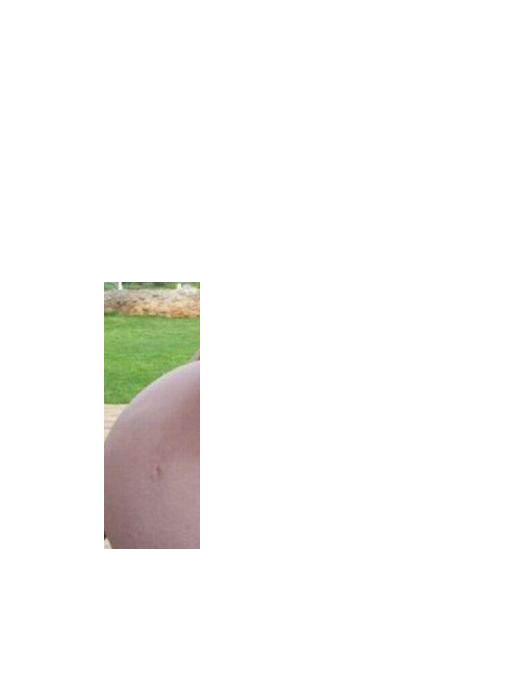
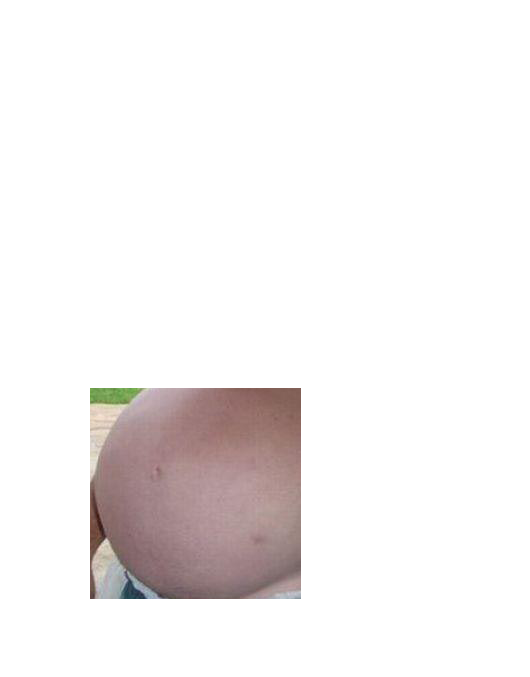
This or This v0.2.35 - Pictures Zoom

Changed region(s): [[0.1509, 0.4032, 0.5736, 0.8996]]

diff --git a/js/jquery.elevateZoom-3.0.8.min.js b/js/jquery.elevateZoom-3.0.8.min.js
@@ -1,0 +1,66 @@
+/* jQuery elevateZoom 3.0.8 - Demo's and documentation: - www.elevateweb.co.uk/image-zoom - Copyright (c) 2013 Andrew Eades - www.elevateweb.co.uk - Dual licensed under the LGPL licenses. - http://en.wikipedia.org/wiki/MIT_License - http://en.wikipedia.org/wiki/GNU_General_Public_License */
+"function"!==typeof Object.create&&(Object.create=function(d){function h(){}h.prototype=d;return new h});
+(function(d,h,l,m){var k={init:function(b,a){var c=this;c.elem=a;c.$elem=d(a);c.imageSrc=c.$elem.data("zoom-image")?c.$elem.data("zoom-image"):c.$elem.attr("src");c.options=d.extend({},d.fn.elevateZoom.options,b);c.options.tint&&(c.options.lensColour="none",c.options.lensOpacity="1");"inner"==c.options.zoomType&&(c.options.showLens=!1);c.$elem.parent().removeAttr("title").removeAttr("alt");c.zoomImage=c.imageSrc;c.refresh(1);d("#"+c.options.gallery+" a").click(function(a){c.options.galleryActiveClass&&
+(d("#"+c.options.gallery+" a").removeClass(c.options.galleryActiveClass),d(this).addClass(c.options.galleryActiveClass));a.preventDefault();d(this).data("zoom-image")?c.zoomImagePre=d(this).data("zoom-image"):c.zoomImagePre=d(this).data("image");c.swaptheimage(d(this).data("image"),c.zoomImagePre);return!1})},refresh:function(b){var a=this;setTimeout(function(){a.fetch(a.imageSrc)},b||a.options.refresh)},fetch:function(b){var a=this,c=new Image;c.onload=function(){a.largeWidth=c.width;a.largeHeight=
+c.height;a.startZoom();a.currentImage=a.imageSrc;a.options.onZoomedImageLoaded(a.$elem)};c.src=b},startZoom:function(){var b=this;b.nzWidth=b.$elem.width();b.nzHeight=b.$elem.height();b.isWindowActive=!1;b.isLensActive=!1;b.isTintActive=!1;b.overWindow=!1;b.options.imageCrossfade&&(b.zoomWrap=b.$elem.wrap('<div style="height:'+b.nzHeight+"px;width:"+b.nzWidth+'px;" class="zoomWrapper" />'),b.$elem.css("position","absolute"));b.zoomLock=1;b.scrollingLock=!1;b.changeBgSize=!1;b.currentZoomLevel=b.options.zoomLevel;
+b.nzOffset=b.$elem.offset();b.widthRatio=b.largeWidth/b.currentZoomLevel/b.nzWidth;b.heightRatio=b.largeHeight/b.currentZoomLevel/b.nzHeight;"window"==b.options.zoomType&&(b.zoomWindowStyle="overflow: hidden;background-position: 0px 0px;text-align:center;background-color: "+String(b.options.zoomWindowBgColour)+";width: "+String(b.options.zoomWindowWidth)+"px;height: "+String(b.options.zoomWindowHeight)+"px;float: left;background-size: "+b.largeWidth/b.currentZoomLevel+"px "+b.largeHeight/b.currentZoomLevel+
+"px;display: none;z-index:100;border: "+String(b.options.borderSize)+"px solid "+b.options.borderColour+";background-repeat: no-repeat;position: absolute;");if("inner"==b.options.zoomType){var a=b.$elem.css("border-left-width");b.zoomWindowStyle="overflow: hidden;margin-left: "+String(a)+";margin-top: "+String(a)+";background-position: 0px 0px;width: "+String(b.nzWidth)+"px;height: "+String(b.nzHeight)+"px;float: left;display: none;cursor:"+b.options.cursor+";px solid "+b.options.borderColour+";background-repeat: no-repeat;position: absolute;"}"window"==
+b.options.zoomType&&(lensHeight=b.nzHeight<b.options.zoomWindowWidth/b.widthRatio?b.nzHeight:String(b.options.zoomWindowHeight/b.heightRatio),lensWidth=b.largeWidth<b.options.zoomWindowWidth?b.nzWidth:b.options.zoomWindowWidth/b.widthRatio,b.lensStyle="background-position: 0px 0px;width: "+String(b.options.zoomWindowWidth/b.widthRatio)+"px;height: "+String(b.options.zoomWindowHeight/b.heightRatio)+"px;float: right;display: none;overflow: hidden;z-index: 999;-webkit-transform: translateZ(0);opacity:"+
+b.options.lensOpacity+";filter: alpha(opacity = "+100*b.options.lensOpacity+"); zoom:1;width:"+lensWidth+"px;height:"+lensHeight+"px;background-color:"+b.options.lensColour+";cursor:"+b.options.cursor+";border: "+b.options.lensBorderSize+"px solid "+b.options.lensBorderColour+";background-repeat: no-repeat;position: absolute;");b.tintStyle="display: block;position: absolute;background-color: "+b.options.tintColour+";filter:alpha(opacity=0);opacity: 0;width: "+b.nzWidth+"px;height: "+b.nzHeight+"px;";
+b.lensRound="";"lens"==b.options.zoomType&&(b.lensStyle="background-position: 0px 0px;float: left;display: none;border: "+String(b.options.borderSize)+"px solid "+b.options.borderColour+";width:"+String(b.options.lensSize)+"px;height:"+String(b.options.lensSize)+"px;background-repeat: no-repeat;position: absolute;");"round"==b.options.lensShape&&(b.lensRound="border-top-left-radius: "+String(b.options.lensSize/2+b.options.borderSize)+"px;border-top-right-radius: "+String(b.options.lensSize/2+b.options.borderSize)+
+"px;border-bottom-left-radius: "+String(b.options.lensSize/2+b.options.borderSize)+"px;border-bottom-right-radius: "+String(b.options.lensSize/2+b.options.borderSize)+"px;");b.zoomContainer=d('<div class="zoomContainer" style="-webkit-transform: translateZ(0);position:absolute;left:'+b.nzOffset.left+"px;top:"+b.nzOffset.top+"px;height:"+b.nzHeight+"px;width:"+b.nzWidth+'px;"></div>');d("body").append(b.zoomContainer);b.options.containLensZoom&&"lens"==b.options.zoomType&&b.zoomContainer.css("overflow",
+"hidden");"inner"!=b.options.zoomType&&(b.zoomLens=d("<div class='zoomLens' style='"+b.lensStyle+b.lensRound+"'>&nbsp;</div>").appendTo(b.zoomContainer).click(function(){b.$elem.trigger("click")}),b.options.tint&&(b.tintContainer=d("<div/>").addClass("tintContainer"),b.zoomTint=d("<div class='zoomTint' style='"+b.tintStyle+"'></div>"),b.zoomLens.wrap(b.tintContainer),b.zoomTintcss=b.zoomLens.after(b.zoomTint),b.zoomTintImage=d('<img style="position: absolute; left: 0px; top: 0px; max-width: none; width: '+
+b.nzWidth+"px; height: "+b.nzHeight+'px;" src="'+b.imageSrc+'">').appendTo(b.zoomLens).click(function(){b.$elem.trigger("click")})));isNaN(b.options.zoomWindowPosition)?b.zoomWindow=d("<div style='z-index:999;left:"+b.windowOffsetLeft+"px;top:"+b.windowOffsetTop+"px;"+b.zoomWindowStyle+"' class='zoomWindow'>&nbsp;</div>").appendTo("body").click(function(){b.$elem.trigger("click")}):b.zoomWindow=d("<div style='z-index:999;left:"+b.windowOffsetLeft+"px;top:"+b.windowOffsetTop+"px;"+b.zoomWindowStyle+
+"' class='zoomWindow'>&nbsp;</div>").appendTo(b.zoomContainer).click(function(){b.$elem.trigger("click")});b.zoomWindowContainer=d("<div/>").addClass("zoomWindowContainer").css("width",b.options.zoomWindowWidth);b.zoomWindow.wrap(b.zoomWindowContainer);"lens"==b.options.zoomType&&b.zoomLens.css({backgroundImage:"url('"+b.imageSrc+"')"});"window"==b.options.zoomType&&b.zoomWindow.css({backgroundImage:"url('"+b.imageSrc+"')"});"inner"==b.options.zoomType&&b.zoomWindow.css({backgroundImage:"url('"+b.imageSrc+
+"')"});b.$elem.bind("touchmove",function(a){a.preventDefault();b.setPosition(a.originalEvent.touches[0]||a.originalEvent.changedTouches[0])});b.zoomContainer.bind("touchmove",function(a){"inner"==b.options.zoomType&&b.showHideWindow("show");a.preventDefault();b.setPosition(a.originalEvent.touches[0]||a.originalEvent.changedTouches[0])});b.zoomContainer.bind("touchend",function(a){b.showHideWindow("hide");b.options.showLens&&b.showHideLens("hide");b.options.tint&&"inner"!=b.options.zoomType&&b.showHideTint("hide")});
+b.$elem.bind("touchend",function(a){b.showHideWindow("hide");b.options.showLens&&b.showHideLens("hide");b.options.tint&&"inner"!=b.options.zoomType&&b.showHideTint("hide")});b.options.showLens&&(b.zoomLens.bind("touchmove",function(a){a.preventDefault();b.setPosition(a.originalEvent.touches[0]||a.originalEvent.changedTouches[0])}),b.zoomLens.bind("touchend",function(a){b.showHideWindow("hide");b.options.showLens&&b.showHideLens("hide");b.options.tint&&"inner"!=b.options.zoomType&&b.showHideTint("hide")}));
+b.$elem.bind("mousemove",function(a){!1==b.overWindow&&b.setElements("show");if(b.lastX!==a.clientX||b.lastY!==a.clientY)b.setPosition(a),b.currentLoc=a;b.lastX=a.clientX;b.lastY=a.clientY});b.zoomContainer.bind("mousemove",function(a){!1==b.overWindow&&b.setElements("show");if(b.lastX!==a.clientX||b.lastY!==a.clientY)b.setPosition(a),b.currentLoc=a;b.lastX=a.clientX;b.lastY=a.clientY});"inner"!=b.options.zoomType&&b.zoomLens.bind("mousemove",function(a){if(b.lastX!==a.clientX||b.lastY!==a.clientY)b.setPosition(a),
+b.currentLoc=a;b.lastX=a.clientX;b.lastY=a.clientY});b.options.tint&&"inner"!=b.options.zoomType&&b.zoomTint.bind("mousemove",function(a){if(b.lastX!==a.clientX||b.lastY!==a.clientY)b.setPosition(a),b.currentLoc=a;b.lastX=a.clientX;b.lastY=a.clientY});"inner"==b.options.zoomType&&b.zoomWindow.bind("mousemove",function(a){if(b.lastX!==a.clientX||b.lastY!==a.clientY)b.setPosition(a),b.currentLoc=a;b.lastX=a.clientX;b.lastY=a.clientY});b.zoomContainer.add(b.$elem).mouseenter(function(){!1==b.overWindow&&
+b.setElements("show")}).mouseleave(function(){b.scrollLock||b.setElements("hide")});"inner"!=b.options.zoomType&&b.zoomWindow.mouseenter(function(){b.overWindow=!0;b.setElements("hide")}).mouseleave(function(){b.overWindow=!1});b.minZoomLevel=b.options.minZoomLevel?b.options.minZoomLevel:2*b.options.scrollZoomIncrement;b.options.scrollZoom&&b.zoomContainer.add(b.$elem).bind("mousewheel DOMMouseScroll MozMousePixelScroll",function(a){b.scrollLock=!0;clearTimeout(d.data(this,"timer"));d.data(this,"timer",
+setTimeout(function(){b.scrollLock=!1},250));var e=a.originalEvent.wheelDelta||-1*a.originalEvent.detail;a.stopImmediatePropagation();a.stopPropagation();a.preventDefault();0<e/120?b.currentZoomLevel>=b.minZoomLevel&&b.changeZoomLevel(b.currentZoomLevel-b.options.scrollZoomIncrement):b.options.maxZoomLevel?b.currentZoomLevel<=b.options.maxZoomLevel&&b.changeZoomLevel(parseFloat(b.currentZoomLevel)+b.options.scrollZoomIncrement):b.changeZoomLevel(parseFloat(b.currentZoomLevel)+b.options.scrollZoomIncrement);
+return!1})},setElements:function(b){if(!this.options.zoomEnabled)return!1;"show"==b&&this.isWindowSet&&("inner"==this.options.zoomType&&this.showHideWindow("show"),"window"==this.options.zoomType&&this.showHideWindow("show"),this.options.showLens&&this.showHideLens("show"),this.options.tint&&"inner"!=this.options.zoomType&&this.showHideTint("show"));"hide"==b&&("window"==this.options.zoomType&&this.showHideWindow("hide"),this.options.tint||this.showHideWindow("hide"),this.options.showLens&&this.showHideLens("hide"),
+this.options.tint&&this.showHideTint("hide"))},setPosition:function(b){if(!this.options.zoomEnabled)return!1;this.nzHeight=this.$elem.height();this.nzWidth=this.$elem.width();this.nzOffset=this.$elem.offset();this.options.tint&&"inner"!=this.options.zoomType&&(this.zoomTint.css({top:0}),this.zoomTint.css({left:0}));this.options.responsive&&!this.options.scrollZoom&&this.options.showLens&&(lensHeight=this.nzHeight<this.options.zoomWindowWidth/this.widthRatio?this.nzHeight:String(this.options.zoomWindowHeight/
+this.heightRatio),lensWidth=this.largeWidth<this.options.zoomWindowWidth?this.nzWidth:this.options.zoomWindowWidth/this.widthRatio,this.widthRatio=this.largeWidth/this.nzWidth,this.heightRatio=this.largeHeight/this.nzHeight,"lens"!=this.options.zoomType&&(lensHeight=this.nzHeight<this.options.zoomWindowWidth/this.widthRatio?this.nzHeight:String(this.options.zoomWindowHeight/this.heightRatio),lensWidth=this.options.zoomWindowWidth<this.options.zoomWindowWidth?this.nzWidth:this.options.zoomWindowWidth/
+this.widthRatio,this.zoomLens.css("width",lensWidth),this.zoomLens.css("height",lensHeight),this.options.tint&&(this.zoomTintImage.css("width",this.nzWidth),this.zoomTintImage.css("height",this.nzHeight))),"lens"==this.options.zoomType&&this.zoomLens.css({width:String(this.options.lensSize)+"px",height:String(this.options.lensSize)+"px"}));this.zoomContainer.css({top:this.nzOffset.top});this.zoomContainer.css({left:this.nzOffset.left});this.mouseLeft=parseInt(b.pageX-this.nzOffset.left);this.mouseTop=
+parseInt(b.pageY-this.nzOffset.top);"window"==this.options.zoomType&&(this.Etoppos=this.mouseTop<this.zoomLens.height()/2,this.Eboppos=this.mouseTop>this.nzHeight-this.zoomLens.height()/2-2*this.options.lensBorderSize,this.Eloppos=this.mouseLeft<0+this.zoomLens.width()/2,this.Eroppos=this.mouseLeft>this.nzWidth-this.zoomLens.width()/2-2*this.options.lensBorderSize);"inner"==this.options.zoomType&&(this.Etoppos=this.mouseTop<this.nzHeight/2/this.heightRatio,this.Eboppos=this.mouseTop>this.nzHeight-
+this.nzHeight/2/this.heightRatio,this.Eloppos=this.mouseLeft<0+this.nzWidth/2/this.widthRatio,this.Eroppos=this.mouseLeft>this.nzWidth-this.nzWidth/2/this.widthRatio-2*this.options.lensBorderSize);0>=this.mouseLeft||0>this.mouseTop||this.mouseLeft>this.nzWidth||this.mouseTop>this.nzHeight?this.setElements("hide"):(this.options.showLens&&(this.lensLeftPos=String(this.mouseLeft-this.zoomLens.width()/2),this.lensTopPos=String(this.mouseTop-this.zoomLens.height()/2)),this.Etoppos&&(this.lensTopPos=0),
+this.Eloppos&&(this.tintpos=this.lensLeftPos=this.windowLeftPos=0),"window"==this.options.zoomType&&(this.Eboppos&&(this.lensTopPos=Math.max(this.nzHeight-this.zoomLens.height()-2*this.options.lensBorderSize,0)),this.Eroppos&&(this.lensLeftPos=this.nzWidth-this.zoomLens.width()-2*this.options.lensBorderSize)),"inner"==this.options.zoomType&&(this.Eboppos&&(this.lensTopPos=Math.max(this.nzHeight-2*this.options.lensBorderSize,0)),this.Eroppos&&(this.lensLeftPos=this.nzWidth-this.nzWidth-2*this.options.lensBorderSize)),
+"lens"==this.options.zoomType&&(this.windowLeftPos=String(-1*((b.pageX-this.nzOffset.left)*this.widthRatio-this.zoomLens.width()/2)),this.windowTopPos=String(-1*((b.pageY-this.nzOffset.top)*this.heightRatio-this.zoomLens.height()/2)),this.zoomLens.css({backgroundPosition:this.windowLeftPos+"px "+this.windowTopPos+"px"}),this.changeBgSize&&(this.nzHeight>this.nzWidth?("lens"==this.options.zoomType&&this.zoomLens.css({"background-size":this.largeWidth/this.newvalueheight+"px "+this.largeHeight/this.newvalueheight+
+"px"}),this.zoomWindow.css({"background-size":this.largeWidth/this.newvalueheight+"px "+this.largeHeight/this.newvalueheight+"px"})):("lens"==this.options.zoomType&&this.zoomLens.css({"background-size":this.largeWidth/this.newvaluewidth+"px "+this.largeHeight/this.newvaluewidth+"px"}),this.zoomWindow.css({"background-size":this.largeWidth/this.newvaluewidth+"px "+this.largeHeight/this.newvaluewidth+"px"})),this.changeBgSize=!1),this.setWindowPostition(b)),this.options.tint&&"inner"!=this.options.zoomType&&
+this.setTintPosition(b),"window"==this.options.zoomType&&this.setWindowPostition(b),"inner"==this.options.zoomType&&this.setWindowPostition(b),this.options.showLens&&(this.fullwidth&&"lens"!=this.options.zoomType&&(this.lensLeftPos=0),this.zoomLens.css({left:this.lensLeftPos+"px",top:this.lensTopPos+"px"})))},showHideWindow:function(b){"show"!=b||this.isWindowActive||(this.options.zoomWindowFadeIn?this.zoomWindow.stop(!0,!0,!1).fadeIn(this.options.zoomWindowFadeIn):this.zoomWindow.show(),this.isWindowActive=
+!0);"hide"==b&&this.isWindowActive&&(this.options.zoomWindowFadeOut?this.zoomWindow.stop(!0,!0).fadeOut(this.options.zoomWindowFadeOut):this.zoomWindow.hide(),this.isWindowActive=!1)},showHideLens:function(b){"show"!=b||this.isLensActive||(this.options.lensFadeIn?this.zoomLens.stop(!0,!0,!1).fadeIn(this.options.lensFadeIn):this.zoomLens.show(),this.isLensActive=!0);"hide"==b&&this.isLensActive&&(this.options.lensFadeOut?this.zoomLens.stop(!0,!0).fadeOut(this.options.lensFadeOut):this.zoomLens.hide(),
+this.isLensActive=!1)},showHideTint:function(b){"show"!=b||this.isTintActive||(this.options.zoomTintFadeIn?this.zoomTint.css({opacity:this.options.tintOpacity}).animate().stop(!0,!0).fadeIn("slow"):(this.zoomTint.css({opacity:this.options.tintOpacity}).animate(),this.zoomTint.show()),this.isTintActive=!0);"hide"==b&&this.isTintActive&&(this.options.zoomTintFadeOut?this.zoomTint.stop(!0,!0).fadeOut(this.options.zoomTintFadeOut):this.zoomTint.hide(),this.isTintActive=!1)},setLensPostition:function(b){},
+setWindowPostition:function(b){var a=this;if(isNaN(a.options.zoomWindowPosition))a.externalContainer=d("#"+a.options.zoomWindowPosition),a.externalContainerWidth=a.externalContainer.width(),a.externalContainerHeight=a.externalContainer.height(),a.externalContainerOffset=a.externalContainer.offset(),a.windowOffsetTop=a.externalContainerOffset.top,a.windowOffsetLeft=a.externalContainerOffset.left;else switch(a.options.zoomWindowPosition){case 1:a.windowOffsetTop=a.options.zoomWindowOffety;a.windowOffsetLeft=
++a.nzWidth;break;case 2:a.options.zoomWindowHeight>a.nzHeight&&(a.windowOffsetTop=-1*(a.options.zoomWindowHeight/2-a.nzHeight/2),a.windowOffsetLeft=a.nzWidth);break;case 3:a.windowOffsetTop=a.nzHeight-a.zoomWindow.height()-2*a.options.borderSize;a.windowOffsetLeft=a.nzWidth;break;case 4:a.windowOffsetTop=a.nzHeight;a.windowOffsetLeft=a.nzWidth;break;case 5:a.windowOffsetTop=a.nzHeight;a.windowOffsetLeft=a.nzWidth-a.zoomWindow.width()-2*a.options.borderSize;break;case 6:a.options.zoomWindowHeight>
+a.nzHeight&&(a.windowOffsetTop=a.nzHeight,a.windowOffsetLeft=-1*(a.options.zoomWindowWidth/2-a.nzWidth/2+2*a.options.borderSize));break;case 7:a.windowOffsetTop=a.nzHeight;a.windowOffsetLeft=0;break;case 8:a.windowOffsetTop=a.nzHeight;a.windowOffsetLeft=-1*(a.zoomWindow.width()+2*a.options.borderSize);break;case 9:a.windowOffsetTop=a.nzHeight-a.zoomWindow.height()-2*a.options.borderSize;a.windowOffsetLeft=-1*(a.zoomWindow.width()+2*a.options.borderSize);break;case 10:a.options.zoomWindowHeight>a.nzHeight&&
+(a.windowOffsetTop=-1*(a.options.zoomWindowHeight/2-a.nzHeight/2),a.windowOffsetLeft=-1*(a.zoomWindow.width()+2*a.options.borderSize));break;case 11:a.windowOffsetTop=a.options.zoomWindowOffety;a.windowOffsetLeft=-1*(a.zoomWindow.width()+2*a.options.borderSize);break;case 12:a.windowOffsetTop=-1*(a.zoomWindow.height()+2*a.options.borderSize);a.windowOffsetLeft=-1*(a.zoomWindow.width()+2*a.options.borderSize);break;case 13:a.windowOffsetTop=-1*(a.zoomWindow.height()+2*a.options.borderSize);a.windowOffsetLeft=
+0;break;case 14:a.options.zoomWindowHeight>a.nzHeight&&(a.windowOffsetTop=-1*(a.zoomWindow.height()+2*a.options.borderSize),a.windowOffsetLeft=-1*(a.options.zoomWindowWidth/2-a.nzWidth/2+2*a.options.borderSize));break;case 15:a.windowOffsetTop=-1*(a.zoomWindow.height()+2*a.options.borderSize);a.windowOffsetLeft=a.nzWidth-a.zoomWindow.width()-2*a.options.borderSize;break;case 16:a.windowOffsetTop=-1*(a.zoomWindow.height()+2*a.options.borderSize);a.windowOffsetLeft=a.nzWidth;break;default:a.windowOffsetTop=
+a.options.zoomWindowOffety,a.windowOffsetLeft=a.nzWidth}a.isWindowSet=!0;a.windowOffsetTop+=a.options.zoomWindowOffety;a.windowOffsetLeft+=a.options.zoomWindowOffetx;a.zoomWindow.css({top:a.windowOffsetTop});a.zoomWindow.css({left:a.windowOffsetLeft});"inner"==a.options.zoomType&&(a.zoomWindow.css({top:0}),a.zoomWindow.css({left:0}));a.windowLeftPos=String(-1*((b.pageX-a.nzOffset.left)*a.widthRatio-a.zoomWindow.width()/2));a.windowTopPos=String(-1*((b.pageY-a.nzOffset.top)*a.heightRatio-a.zoomWindow.height()/
+2));a.Etoppos&&(a.windowTopPos=0);a.Eloppos&&(a.windowLeftPos=0);a.Eboppos&&(a.windowTopPos=-1*(a.largeHeight/a.currentZoomLevel-a.zoomWindow.height()));a.Eroppos&&(a.windowLeftPos=-1*(a.largeWidth/a.currentZoomLevel-a.zoomWindow.width()));a.fullheight&&(a.windowTopPos=0);a.fullwidth&&(a.windowLeftPos=0);if("window"==a.options.zoomType||"inner"==a.options.zoomType)1==a.zoomLock&&(1>=a.widthRatio&&(a.windowLeftPos=0),1>=a.heightRatio&&(a.windowTopPos=0)),a.largeHeight<a.options.zoomWindowHeight&&(a.windowTopPos=
+0),a.largeWidth<a.options.zoomWindowWidth&&(a.windowLeftPos=0),a.options.easing?(a.xp||(a.xp=0),a.yp||(a.yp=0),a.loop||(a.loop=setInterval(function(){a.xp+=(a.windowLeftPos-a.xp)/a.options.easingAmount;a.yp+=(a.windowTopPos-a.yp)/a.options.easingAmount;a.scrollingLock?(clearInterval(a.loop),a.xp=a.windowLeftPos,a.yp=a.windowTopPos,a.xp=-1*((b.pageX-a.nzOffset.left)*a.widthRatio-a.zoomWindow.width()/2),a.yp=-1*((b.pageY-a.nzOffset.top)*a.heightRatio-a.zoomWindow.height()/2),a.changeBgSize&&(a.nzHeight>
+a.nzWidth?("lens"==a.options.zoomType&&a.zoomLens.css({"background-size":a.largeWidth/a.newvalueheight+"px "+a.largeHeight/a.newvalueheight+"px"}),a.zoomWindow.css({"background-size":a.largeWidth/a.newvalueheight+"px "+a.largeHeight/a.newvalueheight+"px"})):("lens"!=a.options.zoomType&&a.zoomLens.css({"background-size":a.largeWidth/a.newvaluewidth+"px "+a.largeHeight/a.newvalueheight+"px"}),a.zoomWindow.css({"background-size":a.largeWidth/a.newvaluewidth+"px "+a.largeHeight/a.newvaluewidth+"px"})),
+a.changeBgSize=!1),a.zoomWindow.css({backgroundPosition:a.windowLeftPos+"px "+a.windowTopPos+"px"}),a.scrollingLock=!1,a.loop=!1):(a.changeBgSize&&(a.nzHeight>a.nzWidth?("lens"==a.options.zoomType&&a.zoomLens.css({"background-size":a.largeWidth/a.newvalueheight+"px "+a.largeHeight/a.newvalueheight+"px"}),a.zoomWindow.css({"background-size":a.largeWidth/a.newvalueheight+"px "+a.largeHeight/a.newvalueheight+"px"})):("lens"!=a.options.zoomType&&a.zoomLens.css({"background-size":a.largeWidth/a.newvaluewidth+
+"px "+a.largeHeight/a.newvaluewidth+"px"}),a.zoomWindow.css({"background-size":a.largeWidth/a.newvaluewidth+"px "+a.largeHeight/a.newvaluewidth+"px"})),a.changeBgSize=!1),a.zoomWindow.css({backgroundPosition:a.xp+"px "+a.yp+"px"}))},16))):(a.changeBgSize&&(a.nzHeight>a.nzWidth?("lens"==a.options.zoomType&&a.zoomLens.css({"background-size":a.largeWidth/a.newvalueheight+"px "+a.largeHeight/a.newvalueheight+"px"}),a.zoomWindow.css({"background-size":a.largeWidth/a.newvalueheight+"px "+a.largeHeight/
+a.newvalueheight+"px"})):("lens"==a.options.zoomType&&a.zoomLens.css({"background-size":a.largeWidth/a.newvaluewidth+"px "+a.largeHeight/a.newvaluewidth+"px"}),a.largeHeight/a.newvaluewidth<a.options.zoomWindowHeight?a.zoomWindow.css({"background-size":a.largeWidth/a.newvaluewidth+"px "+a.largeHeight/a.newvaluewidth+"px"}):a.zoomWindow.css({"background-size":a.largeWidth/a.newvalueheight+"px "+a.largeHeight/a.newvalueheight+"px"})),a.changeBgSize=!1),a.zoomWindow.css({backgroundPosition:a.windowLeftPos+
+"px "+a.windowTopPos+"px"}))},setTintPosition:function(b){this.nzOffset=this.$elem.offset();this.tintpos=String(-1*(b.pageX-this.nzOffset.left-this.zoomLens.width()/2));this.tintposy=String(-1*(b.pageY-this.nzOffset.top-this.zoomLens.height()/2));this.Etoppos&&(this.tintposy=0);this.Eloppos&&(this.tintpos=0);this.Eboppos&&(this.tintposy=-1*(this.nzHeight-this.zoomLens.height()-2*this.options.lensBorderSize));this.Eroppos&&(this.tintpos=-1*(this.nzWidth-this.zoomLens.width()-2*this.options.lensBorderSize));
+this.options.tint&&(this.fullheight&&(this.tintposy=0),this.fullwidth&&(this.tintpos=0),this.zoomTintImage.css({left:this.tintpos+"px"}),this.zoomTintImage.css({top:this.tintposy+"px"}))},swaptheimage:function(b,a){var c=this,e=new Image;c.options.loadingIcon&&(c.spinner=d("<div style=\"background: url('"+c.options.loadingIcon+"') no-repeat center;height:"+c.nzHeight+"px;width:"+c.nzWidth+'px;z-index: 2000;position: absolute; background-position: center center;"></div>'),c.$elem.after(c.spinner));
+c.options.onImageSwap(c.$elem);e.onload=function(){c.largeWidth=e.width;c.largeHeight=e.height;c.zoomImage=a;c.zoomWindow.css({"background-size":c.largeWidth+"px "+c.largeHeight+"px"});c.zoomWindow.css({"background-size":c.largeWidth+"px "+c.largeHeight+"px"});c.swapAction(b,a)};e.src=a},swapAction:function(b,a){var c=this,e=new Image;e.onload=function(){c.nzHeight=e.height;c.nzWidth=e.width;c.options.onImageSwapComplete(c.$elem);c.doneCallback()};e.src=b;c.currentZoomLevel=c.options.zoomLevel;c.options.maxZoomLevel=
+!1;"lens"==c.options.zoomType&&c.zoomLens.css({backgroundImage:"url('"+a+"')"});"window"==c.options.zoomType&&c.zoomWindow.css({backgroundImage:"url('"+a+"')"});"inner"==c.options.zoomType&&c.zoomWindow.css({backgroundImage:"url('"+a+"')"});c.currentImage=a;if(c.options.imageCrossfade){var f=c.$elem,g=f.clone();c.$elem.attr("src",b);c.$elem.after(g);g.stop(!0).fadeOut(c.options.imageCrossfade,function(){d(this).remove()});c.$elem.width("auto").removeAttr("width");c.$elem.height("auto").removeAttr("height");
+f.fadeIn(c.options.imageCrossfade);c.options.tint&&"inner"!=c.options.zoomType&&(f=c.zoomTintImage,g=f.clone(),c.zoomTintImage.attr("src",a),c.zoomTintImage.after(g),g.stop(!0).fadeOut(c.options.imageCrossfade,function(){d(this).remove()}),f.fadeIn(c.options.imageCrossfade),c.zoomTint.css({height:c.$elem.height()}),c.zoomTint.css({width:c.$elem.width()}));c.zoomContainer.css("height",c.$elem.height());c.zoomContainer.css("width",c.$elem.width());"inner"!=c.options.zoomType||c.options.constrainType||
+(c.zoomWrap.parent().css("height",c.$elem.height()),c.zoomWrap.parent().css("width",c.$elem.width()),c.zoomWindow.css("height",c.$elem.height()),c.zoomWindow.css("width",c.$elem.width()))}else c.$elem.attr("src",b),c.options.tint&&(c.zoomTintImage.attr("src",a),c.zoomTintImage.attr("height",c.$elem.height()),c.zoomTintImage.css({height:c.$elem.height()}),c.zoomTint.css({height:c.$elem.height()})),c.zoomContainer.css("height",c.$elem.height()),c.zoomContainer.css("width",c.$elem.width());c.options.imageCrossfade&&
+(c.zoomWrap.css("height",c.$elem.height()),c.zoomWrap.css("width",c.$elem.width()));c.options.constrainType&&("height"==c.options.constrainType&&(c.zoomContainer.css("height",c.options.constrainSize),c.zoomContainer.css("width","auto"),c.options.imageCrossfade?(c.zoomWrap.css("height",c.options.constrainSize),c.zoomWrap.css("width","auto"),c.constwidth=c.zoomWrap.width()):(c.$elem.css("height",c.options.constrainSize),c.$elem.css("width","auto"),c.constwidth=c.$elem.width()),"inner"==c.options.zoomType&&
+(c.zoomWrap.parent().css("height",c.options.constrainSize),c.zoomWrap.parent().css("width",c.constwidth),c.zoomWindow.css("height",c.options.constrainSize),c.zoomWindow.css("width",c.constwidth)),c.options.tint&&(c.tintContainer.css("height",c.options.constrainSize),c.tintContainer.css("width",c.constwidth),c.zoomTint.css("height",c.options.constrainSize),c.zoomTint.css("width",c.constwidth),c.zoomTintImage.css("height",c.options.constrainSize),c.zoomTintImage.css("width",c.constwidth))),"width"==
+c.options.constrainType&&(c.zoomContainer.css("height","auto"),c.zoomContainer.css("width",c.options.constrainSize),c.options.imageCrossfade?(c.zoomWrap.css("height","auto"),c.zoomWrap.css("width",c.options.constrainSize),c.constheight=c.zoomWrap.height()):(c.$elem.css("height","auto"),c.$elem.css("width",c.options.constrainSize),c.constheight=c.$elem.height()),"inner"==c.options.zoomType&&(c.zoomWrap.parent().css("height",c.constheight),c.zoomWrap.parent().css("width",c.options.constrainSize),c.zoomWindow.css("height",
+c.constheight),c.zoomWindow.css("width",c.options.constrainSize)),c.options.tint&&(c.tintContainer.css("height",c.constheight),c.tintContainer.css("width",c.options.constrainSize),c.zoomTint.css("height",c.constheight),c.zoomTint.css("width",c.options.constrainSize),c.zoomTintImage.css("height",c.constheight),c.zoomTintImage.css("width",c.options.constrainSize))))},doneCallback:function(){this.options.loadingIcon&&this.spinner.hide();this.nzOffset=this.$elem.offset();this.nzWidth=this.$elem.width();
+this.nzHeight=this.$elem.height();this.currentZoomLevel=this.options.zoomLevel;this.widthRatio=this.largeWidth/this.nzWidth;this.heightRatio=this.largeHeight/this.nzHeight;"window"==this.options.zoomType&&(lensHeight=this.nzHeight<this.options.zoomWindowWidth/this.widthRatio?this.nzHeight:String(this.options.zoomWindowHeight/this.heightRatio),lensWidth=this.options.zoomWindowWidth<this.options.zoomWindowWidth?this.nzWidth:this.options.zoomWindowWidth/this.widthRatio,this.zoomLens&&(this.zoomLens.css("width",
+lensWidth),this.zoomLens.css("height",lensHeight)))},getCurrentImage:function(){return this.zoomImage},getGalleryList:function(){var b=this;b.gallerylist=[];b.options.gallery?d("#"+b.options.gallery+" a").each(function(){var a="";d(this).data("zoom-image")?a=d(this).data("zoom-image"):d(this).data("image")&&(a=d(this).data("image"));a==b.zoomImage?b.gallerylist.unshift({href:""+a+"",title:d(this).find("img").attr("title")}):b.gallerylist.push({href:""+a+"",title:d(this).find("img").attr("title")})}):
+b.gallerylist.push({href:""+b.zoomImage+"",title:d(this).find("img").attr("title")});return b.gallerylist},changeZoomLevel:function(b){this.scrollingLock=!0;this.newvalue=parseFloat(b).toFixed(2);newvalue=parseFloat(b).toFixed(2);maxheightnewvalue=this.largeHeight/(this.options.zoomWindowHeight/this.nzHeight*this.nzHeight);maxwidthtnewvalue=this.largeWidth/(this.options.zoomWindowWidth/this.nzWidth*this.nzWidth);"inner"!=this.options.zoomType&&(maxheightnewvalue<=newvalue?(this.heightRatio=this.largeHeight/
+maxheightnewvalue/this.nzHeight,this.newvalueheight=maxheightnewvalue,this.fullheight=!0):(this.heightRatio=this.largeHeight/newvalue/this.nzHeight,this.newvalueheight=newvalue,this.fullheight=!1),maxwidthtnewvalue<=newvalue?(this.widthRatio=this.largeWidth/maxwidthtnewvalue/this.nzWidth,this.newvaluewidth=maxwidthtnewvalue,this.fullwidth=!0):(this.widthRatio=this.largeWidth/newvalue/this.nzWidth,this.newvaluewidth=newvalue,this.fullwidth=!1),"lens"==this.options.zoomType&&(maxheightnewvalue<=newvalue?
+(this.fullwidth=!0,this.newvaluewidth=maxheightnewvalue):(this.widthRatio=this.largeWidth/newvalue/this.nzWidth,this.newvaluewidth=newvalue,this.fullwidth=!1)));"inner"==this.options.zoomType&&(maxheightnewvalue=parseFloat(this.largeHeight/this.nzHeight).toFixed(2),maxwidthtnewvalue=parseFloat(this.largeWidth/this.nzWidth).toFixed(2),newvalue>maxheightnewvalue&&(newvalue=maxheightnewvalue),newvalue>maxwidthtnewvalue&&(newvalue=maxwidthtnewvalue),maxheightnewvalue<=newvalue?(this.heightRatio=this.largeHeight/
+newvalue/this.nzHeight,this.newvalueheight=newvalue>maxheightnewvalue?maxheightnewvalue:newvalue,this.fullheight=!0):(this.heightRatio=this.largeHeight/newvalue/this.nzHeight,this.newvalueheight=newvalue>maxheightnewvalue?maxheightnewvalue:newvalue,this.fullheight=!1),maxwidthtnewvalue<=newvalue?(this.widthRatio=this.largeWidth/newvalue/this.nzWidth,this.newvaluewidth=newvalue>maxwidthtnewvalue?maxwidthtnewvalue:newvalue,this.fullwidth=!0):(this.widthRatio=this.largeWidth/newvalue/this.nzWidth,this.newvaluewidth=
+newvalue,this.fullwidth=!1));scrcontinue=!1;"inner"==this.options.zoomType&&(this.nzWidth>this.nzHeight&&(this.newvaluewidth<=maxwidthtnewvalue?scrcontinue=!0:(scrcontinue=!1,this.fullwidth=this.fullheight=!0)),this.nzHeight>this.nzWidth&&(this.newvaluewidth<=maxwidthtnewvalue?scrcontinue=!0:(scrcontinue=!1,this.fullwidth=this.fullheight=!0)));"inner"!=this.options.zoomType&&(scrcontinue=!0);scrcontinue&&(this.zoomLock=0,this.changeZoom=!0,this.options.zoomWindowHeight/this.heightRatio<=this.nzHeight&&
+(this.currentZoomLevel=this.newvalueheight,"lens"!=this.options.zoomType&&"inner"!=this.options.zoomType&&(this.changeBgSize=!0,this.zoomLens.css({height:String(this.options.zoomWindowHeight/this.heightRatio)+"px"})),"lens"==this.options.zoomType||"inner"==this.options.zoomType)&&(this.changeBgSize=!0),this.options.zoomWindowWidth/this.widthRatio<=this.nzWidth&&("inner"!=this.options.zoomType&&this.newvaluewidth>this.newvalueheight&&(this.currentZoomLevel=this.newvaluewidth),"lens"!=this.options.zoomType&&
+"inner"!=this.options.zoomType&&(this.changeBgSize=!0,this.zoomLens.css({width:String(this.options.zoomWindowWidth/this.widthRatio)+"px"})),"lens"==this.options.zoomType||"inner"==this.options.zoomType)&&(this.changeBgSize=!0),"inner"==this.options.zoomType&&(this.changeBgSize=!0,this.nzWidth>this.nzHeight&&(this.currentZoomLevel=this.newvaluewidth),this.nzHeight>this.nzWidth&&(this.currentZoomLevel=this.newvaluewidth)));this.setPosition(this.currentLoc)},closeAll:function(){self.zoomWindow&&self.zoomWindow.hide();
+self.zoomLens&&self.zoomLens.hide();self.zoomTint&&self.zoomTint.hide()},changeState:function(b){"enable"==b&&(this.options.zoomEnabled=!0);"disable"==b&&(this.options.zoomEnabled=!1)}};d.fn.elevateZoom=function(b){return this.each(function(){var a=Object.create(k);a.init(b,this);d.data(this,"elevateZoom",a)})};d.fn.elevateZoom.options={zoomActivation:"hover",zoomEnabled:!0,preloading:1,zoomLevel:1,scrollZoom:!1,scrollZoomIncrement:0.1,minZoomLevel:!1,maxZoomLevel:!1,easing:!1,easingAmount:12,lensSize:200,
+zoomWindowWidth:400,zoomWindowHeight:400,zoomWindowOffetx:0,zoomWindowOffety:0,zoomWindowPosition:1,zoomWindowBgColour:"#fff",lensFadeIn:!1,lensFadeOut:!1,debug:!1,zoomWindowFadeIn:!1,zoomWindowFadeOut:!1,zoomWindowAlwaysShow:!1,zoomTintFadeIn:!1,zoomTintFadeOut:!1,borderSize:4,showLens:!0,borderColour:"#888",lensBorderSize:1,lensBorderColour:"#000",lensShape:"square",zoomType:"window",containLensZoom:!1,lensColour:"white",lensOpacity:0.4,lenszoom:!1,tint:!1,tintColour:"#333",tintOpacity:0.4,gallery:!1,
+galleryActiveClass:"zoomGalleryActive",imageCrossfade:!1,constrainType:!1,constrainSize:!1,loadingIcon:!1,cursor:"default",responsive:!0,onComplete:d.noop,onZoomedImageLoaded:function(){},onImageSwap:d.noop,onImageSwapComplete:d.noop}})(jQuery,window,document);

diff --git a/includes/mvc/views/view.tot.php b/includes/mvc/views/view.tot.php
@@ -261,6 +261,11 @@ class Tot_View {
             jQuery('.step_'+step).find('.img_reveal').show();
             step = step + 1;
             jQuery('.step_'+step).show();
+            jQuery('.step_'+step+' .zoom_in').elevateZoom({
+              zoomType				: "lens",
+              lensShape : "round",
+              lensSize    : 200
+            });
             if (step > data.elements.length){
                 display_score();
             }
@@ -304,7 +309,7 @@ class Tot_View {
 
         data.elements.forEach(function (element){
             nb++;
-            jQuery('#tot_container').append('<div class="step step_'+nb+'" data-value="'+element.choice+'"><div class="row img_container"><div class="col s12 img_hidden"><img class="tot_img" src="'+element.hidden_image+'" /></div><div class="col s12 img_reveal"><div class="answer">'+element.choice+'</div><img class="tot_img" src="'+element.reveal_image+'" /></div></div><div class="row tot_footer"><div class="col s4 centered"><a class="waves-effect waves-light btn btn-large response_btn cyan darken-3" data-value="'+data.choice_1+'">'+data.choice_1+'</a></div><div class="col s4 centered"><h4>'+nb+'/'+total+'</h4></div><div class="col s4 centered"><a class="waves-effect waves-light btn btn-large response_btn cyan darken-3" data-value="'+data.choice_2+'">'+data.choice_2+'</a></div></div></div>');
+            jQuery('#tot_container').append('<div class="step step_'+nb+'" data-value="'+element.choice+'"><div class="row img_container"><div class="col s12 img_hidden"><img class="tot_img zoom_in" src="'+element.hidden_image+'" data-zoom-image="'+element.hidden_image+'" /></div><div class="col s12 img_reveal"><div class="answer">'+element.choice+'</div><img class="tot_img" src="'+element.reveal_image+'" /></div></div><div class="row tot_footer"><div class="col s4 centered"><a class="waves-effect waves-light btn btn-large response_btn cyan darken-3" data-value="'+data.choice_1+'">'+data.choice_1+'</a></div><div class="col s4 centered"><h4>'+nb+'/'+total+'</h4></div><div class="col s4 centered"><a class="waves-effect waves-light btn btn-large response_btn cyan darken-3" data-value="'+data.choice_2+'">'+data.choice_2+'</a></div></div></div>');
         });
         jQuery('.step').each(function(){
             if (jQuery(window).width() < 480){
@@ -346,6 +351,15 @@ class Tot_View {
             jQuery(this).find('.anwser').removeClass('wrong');
             jQuery(this).hide();
         });
+
+        jQuery('.zoom_in').each(function(){
+          jQuery(this).elevateZoom({
+            zoomType				: "lens",
+            lensShape : "round",
+            lensSize    : 200
+          });
+        });
+
         jQuery('.over').hide();
         jQuery('.start').show();
         jQuery('.response_btn').click(function(){

diff --git a/includes/mvc/views/view.header.php b/includes/mvc/views/view.header.php
@@ -98,6 +98,8 @@
             <script src="<?php echo 'http://localhost/this-or-this/js/init.js' ?>"></script>
             <script src="<?php echo 'http://localhost/this-or-this/js/validate.js' ?>"></script>
             <script src="<?php echo 'http://localhost/this-or-this/js/js.cookie.js' ?>"></script>
+            <script src="<?php echo 'http://localhost/this-or-this/js/jquery.elevateZoom-3.0.8.min.js' ?>"></script>
+            
             <!-- Global site tag (gtag.js) - Google Analytics -->
             <script async src="https://www.googletagmanager.com/gtag/js?id=UA-108698505-1"></script>
             <script>
